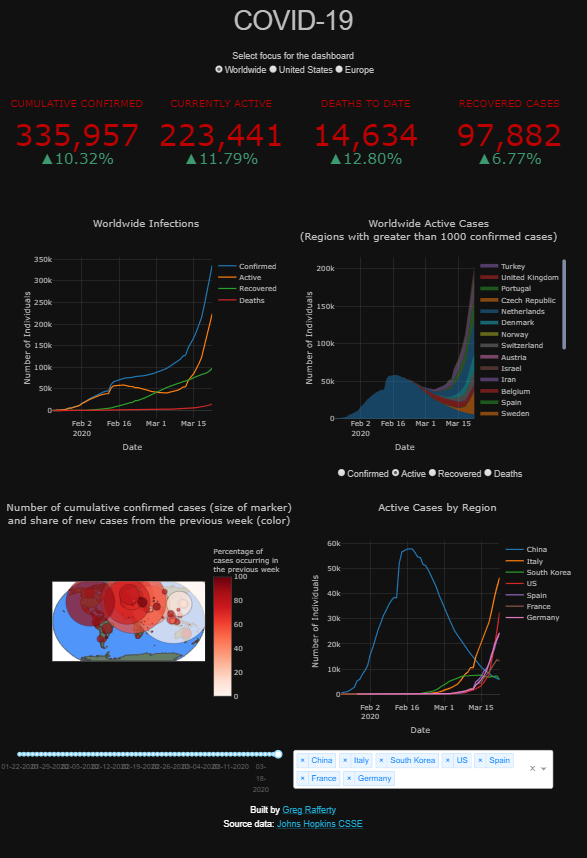
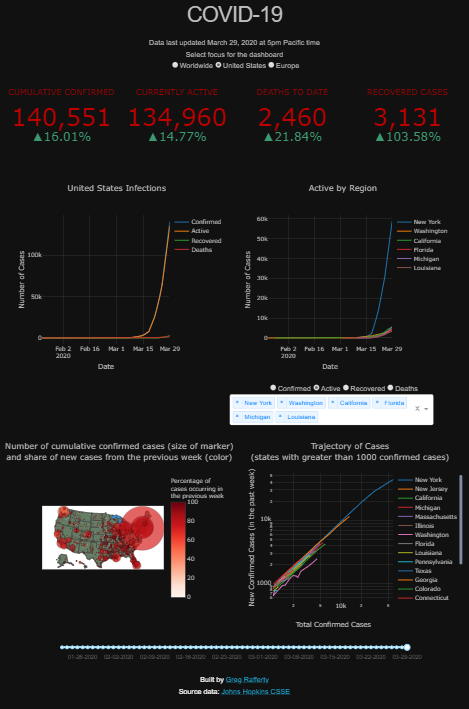
updated readme

diff --git a/README.md b/README.md
@@ -13,11 +13,13 @@ A web dashboard deployed on Heroku at [https://covid-19-raffg.herokuapp.com/](ht
 
  This button changes the underlying data for each displayed chart to reflect the selected region.
 
+ Each evening at roughly 5pm, Johns Hopkins updates their data source with new cases from the day. My dashboard automatically runs an ETL script to download the new data, process it into the format required by the dashboard, and upload it to Heroku. The headline here declares when the data was most recently updated.
+
  ---
 
  ## Components
 
-There are five main components of the dashboard: the indicators, the infections rates for the selected region, the case analysis by sub-region, the infection map, and the active case comparison chart.
+There are five main components of the dashboard: the indicators, the infections rates for the selected region, the case analysis by sub-region, the infection map, and the trajectory chart.
 
 ### Indicators
 
@@ -35,13 +37,15 @@ It is calculated as `ACTIVE = CONFIRMED - DEATHS - RECOVERED`
 
 ![infections](images/infections.png)
 
-The infections chart displays the totals for `CONFIRMED`, `ACTIVE`, `RECOVERED`, and `DEATHS` for the selected region, by date. Hovering the mouse over the chart will reveal the counts for each of these measures on the specific date. Using the mouse, you can zoom in and out or click and drag to select a box to zoom in on. Additionally, hovering over the chart (or any chart on the dashboard) will make visibile several control buttons in the top right of the chart. There are slightly different options for each chart, but of particular usefulness is the ability to reset the chart back to original zoom level.
+The infections chart displays the totals for `CONFIRMED`, `ACTIVE`, `RECOVERED`, and `DEATHS` for the selected region, by date. Hovering the mouse over the chart will reveal the counts for each of these measures on the specific date. Using the mouse, you can zoom in and out or click and drag to select a box to zoom in on. Additionally, hovering over the chart (or any chart on the dashboard) will make visible several control buttons in the top right of the chart. There are slightly different options for each chart, but of particular usefulness is the ability to reset the chart back to original zoom level.
 
 ### Cases by Sub-Region
 
 ![cases](images/cases.png)
 
-The cases  graphic displays a stacked area chart by sub-region of either `CONFIRMED`, `ACTIVE`, `RECOVERED`, or `DEATHS`, selectable with the radio buttons below the chart. If the selected region is `Worldwide`, the sub-regions displayed are countries with a cumulative confirmed count of greater than 1,000 cases. If the selected region is `United Sates`, the sub-regions are the states which have a cumulative confirmed count greater than 20. Selecting the region `Europe` is much the same as the `Worldwide` selection, except only European countries are displayed. On hover, the exact count of the selected metric is displayed for the sub-region the mouse is over.
+The cases  graphic displays a line chart by sub-region of either `CONFIRMED`, `ACTIVE`, `RECOVERED`, or `DEATHS`, selectable with the radio buttons below the chart. If the selected region is `Worldwide` or `Europe`, the sub-regions displayed are countries. If the selected region is `United Sates`, the sub-regions are the states. On hover, the exact count of the selected metric is displayed for the sub-region the mouse is over.
+
+By default, it displays sub-regions which were of particular interest when this dashboard was created. The dropdown-bar on the bottom allows you to select different sub-regions for display, either countries for the `Worldwide` and `Europe` focus or states for the `United States` focus. Typing in the dropdown-bar will allow you to search for sub-regions.
 
 As with the other two line charts on this dashboard, clicking on an item in the legend will temporarily remove that item from the chart. Clicking again will add it back. Double-clicking an item will remove all other items and isolate that singular item on the chart. Double-clicking again will add back all items.
 
@@ -51,8 +55,10 @@ As with the other two line charts on this dashboard, clicking on an item in the 
 
 The infection map features a circular marker over each sub-region. The size of the marker is relative to the square root of the `CONFIRMED` cases within that sub-region and the color indicates the percentage of those cases which were newly confirmed within the previous 7 days. Essentially, the size of the marker is a measure of how many people have caught the virus within that sub-region since the outbreak began and the color is a measure of how active the virus currently is, with dark red indicating the virus is actively spreading and white indicating that it is more under control. Hovering over a marker will reveal the country name and the exact value of the two measures. As with the other charts, the map is zoomable and dragable. Below the chart is a slider bar controlling the date at which the map displays data. By default it is set for the most recent date available but by dragging to the left you can see the spread of the pandemic through time.
 
-### Active Cases
+If `United States` is selected as the focus of the dashboard, each state will have its own marker for `CONFIRMED` cases, only up until March 22nd. At this point, John Hopkins began to provide data aggregated to the county-level, and I have followed suit from this date onward. This provides a much more informative and granular view of the data, however the cost is dashboard performance. Unfortunately, rendering this 60x-increase in markers slows the dashboard down but I accepted this tradeoff for the additional insight provided.
 
-![active cases](images/active_cases.png)
+### Trajectory
 
-This chart displays data only for cases currently `ACTIVE`. By default, it displays sub-regions which were of particular interest when this dashboard was created. The dropdown-bar on the bottom allows you to select different sub-regions for display, either countries for the `Worldwide` and `Europe` focus or states for the `United States` focus. Typing in the dropdown-bar will allow you to search for sub-regions.
+![trajectory](images/trajectory.png)
+
+This chart displays the trajectory of the pandemic within sub-regions. The x-axis displays the cumulative confirmed count by sub-region and the y-axis displays the count of cases which were confirmed in the previous week. With this visualization, once a sub-region has managed to control the pandemic to some extent, the line should suddenly drop down, as China (green) and South Korea (orange) have in the image. Although `date` is not on either of the axes, the data is still plotted by date; hovering over any line will display the date on which that data point was recorded. Additionally, the date slider on the bottom also controls this chart; so along with the map, the change throughout time of the trajectories can be inspected.
